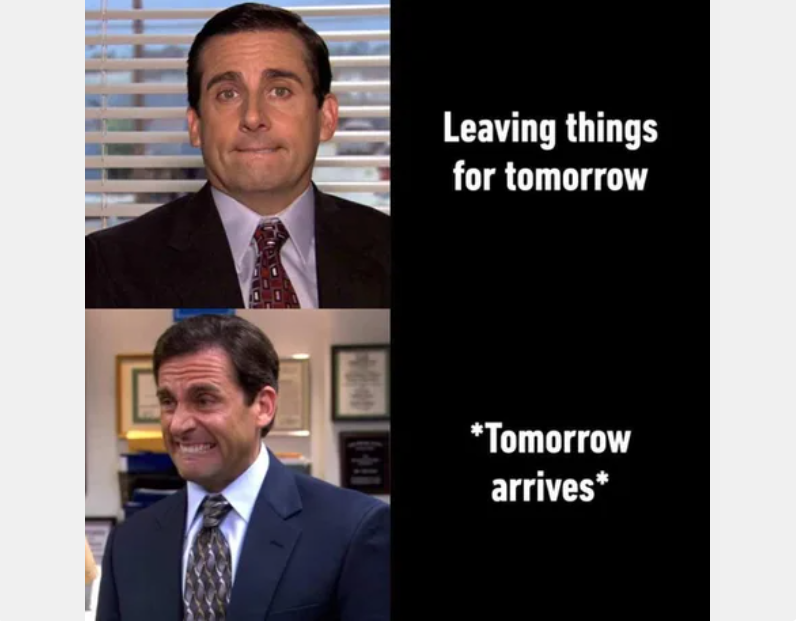
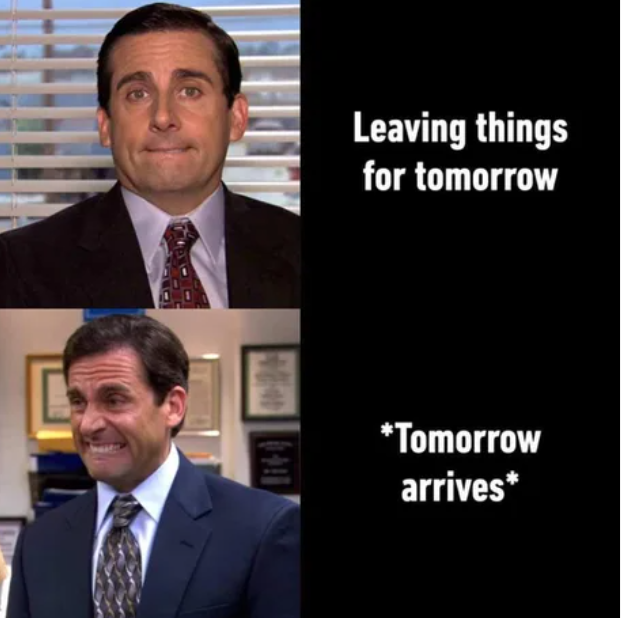
fix: changed pic's size (Sat,May,14,2022,12:52:49 AM)

diff --git a/cssMemSlider/index.html b/cssMemSlider/index.html
@@ -20,7 +20,7 @@
         <input type="radio" id="slide5" name="slider">
         <div class="slider__frame">
             <div class="slider__pictures">
-                <div class="slider__picture pic1"><img src="./images/1.png" alt=""></div>
+                <div class="slider__picture pic1"><img src="./images/11.png" alt=""></div>
                 <div class="slider__picture pic2"><img src="./images/2.png" alt=""></div>
                 <div class="slider__picture pic3"><img src="./images/3.png" alt=""></div>
                 <div class="slider__picture pic4"><img src="./images/4.png" alt=""></div>

diff --git a/cssMemSlider/style.css b/cssMemSlider/style.css
@@ -348,7 +348,7 @@ label .dot:hover {
 
 @media (max-width: 480px) {
   .slider {
-    width: 80vw;
+    width: 86vw;
   }
   .slider__nav {
     flex-direction: column;
